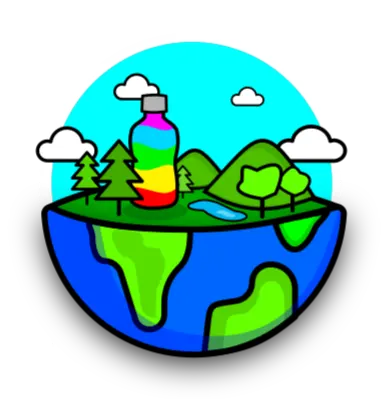
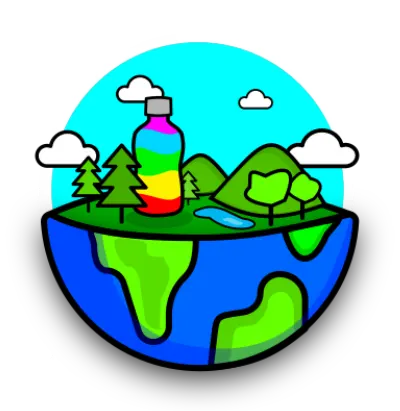
images final

diff --git a/stylesheet-1-1.css b/stylesheet-1-1.css
@@ -1735,13 +1735,13 @@ migrated from GoBrik.com CSS
   font-family: Mulish;
   color: #ffffff;
   font-size: 16px;
-  background: #c5c6c7;
+  background: #b8b8b8;
   padding: 8px 15px 8px 15px;
   text-decoration: none;
 }
 
 .module-btn:hover {
-  background: #b8b8b8;
+  background: #c5c6c7;
   text-decoration: none;
 }
 

diff --git a/what-beta.php b/what-beta.php
@@ -1011,7 +1011,7 @@ text-decoration: none;
 			</div>
 				
 			<div id="side-module-desktop-only">
-			<img src="webp/earth-example.webp" width="90%">
+			<img src="webp/earth-example.webp" width="80%">
 				<h4>Regenerative</h4>
 				<h5>Ecobricking is based on following the Earth's example and is guided by seven green principles.</h5><br>
 				<a class="module-btn" href="princles">Principles</a>
